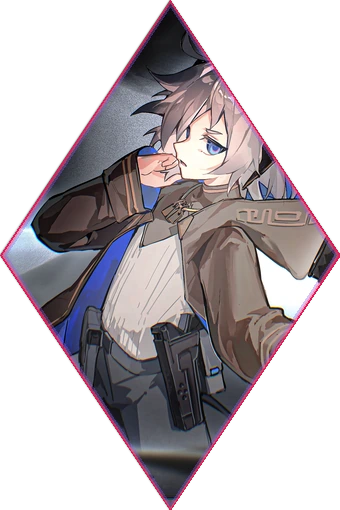
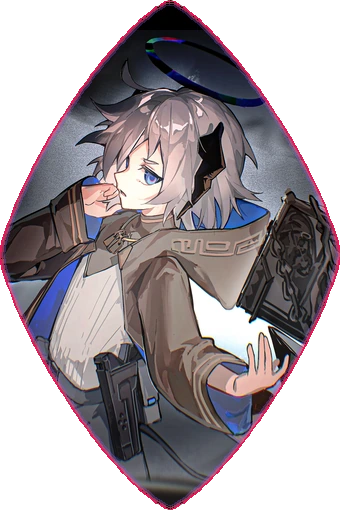
fix(readme): 人像居中、精简常用技术、去掉招揽联系的话
- 头像：按实测头部位置（x=0.545W）重新裁切，改为超椭圆轮廓（p=1.30）
  并下移 30px；原菱形在头部高度只有 35% 宽，装不下 63% 宽的头
- 常用技术：删掉与图标重复的四行分类，改成三行短句，补上 <br> 断行
- 「找到我」→「说明」：去掉约人联系的说法和 GitHub 徽章，合并页脚说明
- 中文段落合并到单行，避免 markdown 折行插入多余空格
- 第三方依赖只剩 typing SVG 和 Skill Icons

diff --git a/scripts/build_assets.py b/scripts/build_assets.py
@@ -30,6 +30,7 @@ Requires: Pillow >= 10 with WebP and FreeType support.
 from __future__ import annotations
 
 import argparse
+import math
 import sys
 from pathlib import Path
 
@@ -635,30 +636,73 @@ def build_divider(pal: dict) -> Image.Image:
 # ─────────────────────────────────────────────────────────────────────────────
 
 PORT_W, PORT_H = 340, 510
+# Measured from the source art, not guessed: the head sits at x = 0.545 W, is
+# about 0.63 W wide, and lands ~17.5% down a full-height crop.
+PORT_HEAD_X = 0.545
+# A sharp rhombus is only ~35% wide at that height, so it cannot hold a head
+# that is 63% wide. The exponent walks the outline from diamond (1.0) toward
+# ellipse (2.0); 1.30 keeps the diamond reading while clearing the head.
+PORT_SHAPE_P = 1.30
+# Nudges the artwork down into the wider part of the shape, which also brings
+# the character's halo fully into frame.
+PORT_OFFSET_Y = 30
+
+
+def superellipse_mask(size, p, ss=3) -> Image.Image:
+    """|u|^p + |v|^p <= 1. Build one quadrant, mirror it, then mirror the bottom half up."""
+    w, h = size
+    nw, nh = w * ss, h * ss
+    cx, cy = nw // 2, nh // 2
+    qw, qh = cx + 1, cy + 1
+
+    q = Image.new("L", (qw, qh), 0)
+    px = q.load()
+    inv = 1.0 / p
+    for y in range(qh):
+        v = y / (nh / 2.0)
+        vp = v ** p
+        if vp >= 1.0:
+            break
+        xmax = min(int(((1.0 - vp) ** inv) * (nw / 2.0)), qw - 1)
+        for x in range(xmax + 1):
+            px[x, y] = 255
+
+    full = Image.new("L", (nw, nh), 0)
+    full.paste(q, (cx, cy))
+    full.paste(q.transpose(Image.FLIP_LEFT_RIGHT), (cx - qw + 1, cy))
+    bottom = full.crop((0, cy, nw, nh))
+    full.paste(bottom.transpose(Image.FLIP_TOP_BOTTOM), (0, 0))
+    return full.resize(size, Image.LANCZOS)
 
 
 def build_portrait(source_root: Path) -> Image.Image:
     src = Image.open(source_root / PORTRAIT_SOURCE).convert("RGB")
     sw, sh = src.size
-    crop_w = int(sw * 0.34)
-    x0 = int(sw * 0.31)
-    src = src.crop((x0, 0, x0 + crop_w, sh))
 
-    ss = 4  # supersample the mask for clean edges
-    mask = Image.new("L", (PORT_W * ss, PORT_H * ss), 0)
-    w, h = PORT_W * ss, PORT_H * ss
-    ImageDraw.Draw(mask).polygon([(w // 2, 0), (w, h // 2), (w // 2, h), (0, h // 2)], fill=255)
-    mask = mask.resize((PORT_W, PORT_H), Image.LANCZOS).filter(ImageFilter.GaussianBlur(0.6))
+    # full-height crop whose horizontal centre lands on the head
+    crop_w = min(int(sh * PORT_W / PORT_H), sw)
+    x0 = max(0, min(sw - crop_w, int(PORT_HEAD_X * sw - crop_w / 2)))
+    art = src.crop((x0, 0, x0 + crop_w, sh)).resize((PORT_W, PORT_H), Image.LANCZOS)
+    if PORT_OFFSET_Y:
+        shifted = Image.new("RGB", (PORT_W, PORT_H), (0, 0, 0))
+        shifted.paste(art, (0, PORT_OFFSET_Y))
+        art = shifted
 
     out = Image.new("RGBA", (PORT_W, PORT_H), (0, 0, 0, 0))
-    out.paste(src.resize((PORT_W, PORT_H), Image.LANCZOS), (0, 0), mask)
+    out.paste(art, (0, 0), superellipse_mask((PORT_W, PORT_H), PORT_SHAPE_P))
 
+    # crimson edge, traced along the same superellipse so the two agree
     rim = Image.new("RGBA", (PORT_W, PORT_H), (0, 0, 0, 0))
     rd = ImageDraw.Draw(rim)
-    for inset, (r, g, b, a) in ((0, (225, 29, 92, 255)), (2, (255, 77, 126, 150)), (4, (139, 92, 246, 90))):
-        rd.polygon([(PORT_W // 2, inset), (PORT_W - inset, PORT_H // 2),
-                    (PORT_W // 2, PORT_H - inset), (inset, PORT_H // 2)],
-                   outline=(r, g, b, a), width=2)
+    for inset, col in ((0, (225, 29, 92, 255)), (2, (255, 77, 126, 140)), (4, (139, 92, 246, 80))):
+        pts = []
+        for i in range(241):
+            t = i / 240 * 2 * math.pi
+            ca, sa = math.cos(t), math.sin(t)
+            rad = (abs(ca) ** PORT_SHAPE_P + abs(sa) ** PORT_SHAPE_P) ** (-1.0 / PORT_SHAPE_P)
+            pts.append((PORT_W / 2 + ca * rad * (PORT_W / 2 - inset),
+                        PORT_H / 2 + sa * rad * (PORT_H / 2 - inset)))
+        rd.line(pts, fill=col, width=2)
     return Image.alpha_composite(out, rim)
 
 

diff --git a/README.md b/README.md
@@ -1,8 +1,8 @@
 <!--
   维护说明
   ========
-  * 图片全部放在 assets/ 下自己托管。只有 typing 副标题、Skill Icons 和徽章
-    走第三方，它们挂掉不影响阅读。
+  * 图片全部放在 assets/ 下自己托管。只有 typing 副标题和 Skill Icons 走第三方，
+    它们挂掉不影响阅读。
   * dark / light 用 <picture> 切换，兜底的 <img> 一律指向 light 版本，
     这样不认 media query 的客户端也不会在浅色页面上出现一块黑图。
   * <div align="center"> 里的 markdown 会被正常解析，那些空行别删。
@@ -45,11 +45,9 @@
 <!-- ============================ 关于我 ============================ -->
 ## // 关于我
 
-主要在做 AI 应用。云端 API 和本地 GGUF 模型走同一套接口，路由、回退、流式输出、额度控制这些都得自己写。
-比起把模型调通，我更在意它跑起来之后稳不稳。
+主要在做 AI 应用。云端 API 和本地 GGUF 模型走同一套接口，路由、回退、流式输出、额度控制这些都得自己写。比起把模型调通，我更在意它跑起来之后稳不稳。
 
-另外有一套电路识别的项目，从拍照到还原拓扑，规则引擎和 LLM 各管一段。
-平时 Windows 上用得多，但部署尽量保持 Linux 也能跑。
+另外有一套电路识别的项目，从拍照到还原拓扑，规则引擎和 LLM 各管一段。平时 Windows 上用得多，但部署尽量保持 Linux 也能跑。
 
 <p align="center">
 <picture>
@@ -91,8 +89,7 @@
 
 #### TESSERA · 多服务 AI 平台 `私有`
 
-三个 FastAPI 服务放在一个反向代理后面，核心是自己写的一套 LLM 服务层。
-后台改完 provider 配置，下一次请求就生效，不用重启。
+三个 FastAPI 服务放在一个反向代理后面，核心是自己写的一套 LLM 服务层。后台改完 provider 配置，下一次请求就生效，不用重启。
 
 - 云端和本地模型走同一套流式接口，一边不通就换另一边
 - 熔断器把「忙」和「坏」分开看，节点排队时不会直接判死
@@ -110,8 +107,7 @@
 
 #### AURORA · 电路识别与拓扑还原 `私有`
 
-一开始只是想把课堂电路图识别出来。做下去才发现，认出元件不难，
-难的是把导线关系还原成一张靠谱的拓扑图。
+一开始只是想把课堂电路图识别出来。做下去才发现，认出元件不难，难的是把导线关系还原成一张靠谱的拓扑图。
 
 - 证据不够就不猜。宁可返回「未知」，也不编一条看起来合理的边
 - 导线用并查集聚类，环路用 Prim MST 收，避免连线在图上乱飞
@@ -145,12 +141,8 @@
 </picture>
 </p>
 
-- **AI / LLM** — `Python` · `FastAPI` · `llama.cpp` · `GGUF` · SSE 流式
-- **前端** — `JavaScript` · `TypeScript` · `Vue` · Canvas
-- **视觉 / 模型** — `YOLO` · `PyTorch` · `ONNX Runtime` · `OpenCV`
-- **数据 / 基建** — `PostgreSQL` · `SQLite` · `Nginx` · `PowerShell` · `Linux`
-
-写顺手的是 Python 和原生 JS，Vue 和 TypeScript 用在在线课程那套上。
+Python 和原生 JS 是主力，Vue / TypeScript 用在在线课程那套上。<br>
+模型侧跑 `llama.cpp` + GGUF，视觉侧是 YOLO + `ONNX Runtime`。<br>
 部署基本是 Nginx 加 Windows 服务，能搬去 Linux 的尽量搬。
 
 <p align="center">
@@ -183,21 +175,18 @@
 </picture>
 </p>
 
-<!-- ============================ 找到我 ============================ -->
-## // 找到我
+<!-- ============================= 说明 ============================= -->
+## // 说明
 
 <div align="center">
 
-<img src="./assets/misc/strand-portrait.webp" width="170"
-     alt="自设角色的半身像，裁成菱形并镶了一道暗红描边。" />
+<img src="./assets/misc/strand-portrait.webp" width="180"
+     alt="自设角色的半身像，裁成柔和的菱形并镶了一道暗红描边。" />
 
-两个项目都是私有仓库，源码不方便公开。想聊多模型服务、本地推理，
-或者视觉加规则这类东西，在 GitHub 上找我就行。
+上面两个项目都是私有仓库，源码不方便公开，这里只写了做法。
 
-[![GitHub](https://img.shields.io/badge/GitHub-MostimaBridges-E11D5C?style=flat-square&labelColor=1A1027&logo=github&logoColor=white)](https://github.com/MostimaBridges)
+标题图、项目卡、分隔线和 monogram 都由 <a href="./scripts/build_assets.py">scripts/build_assets.py</a> 生成，配色只维护那一处。
 
 <img src="./assets/icons/monogram.svg" width="34" alt="" />
 
 </div>
-
-<sub>标题图、项目卡、分隔线和 monogram 都由 <a href="./scripts/build_assets.py">scripts/build_assets.py</a> 生成，配色只维护那一处。</sub>
